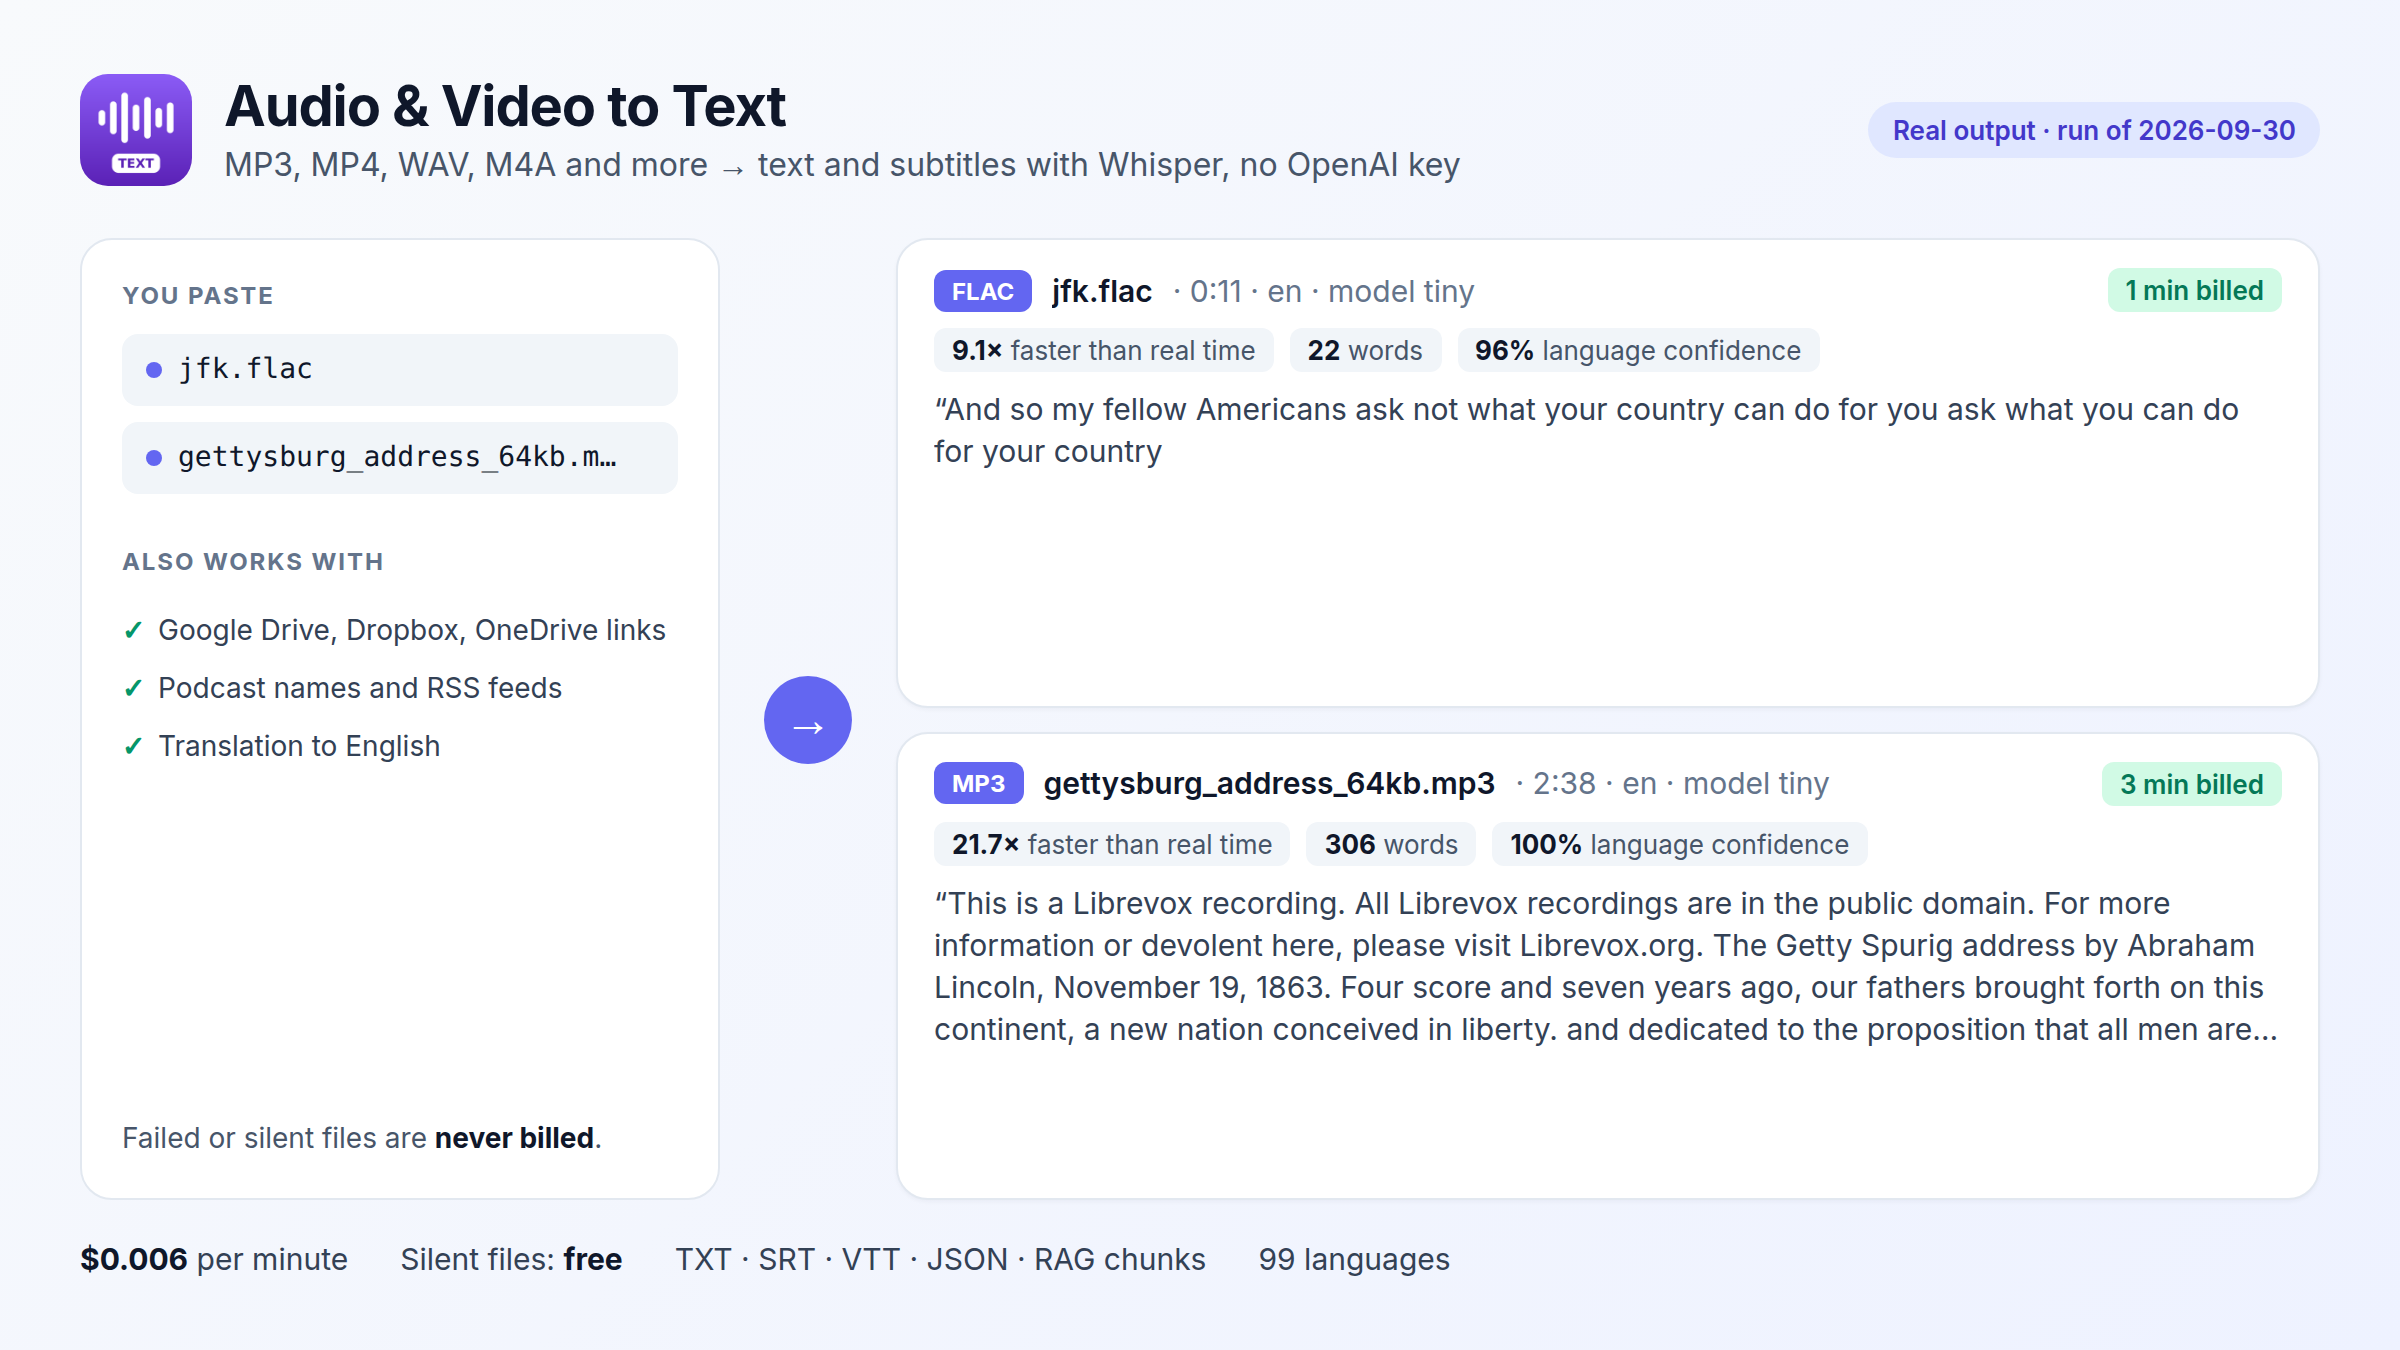
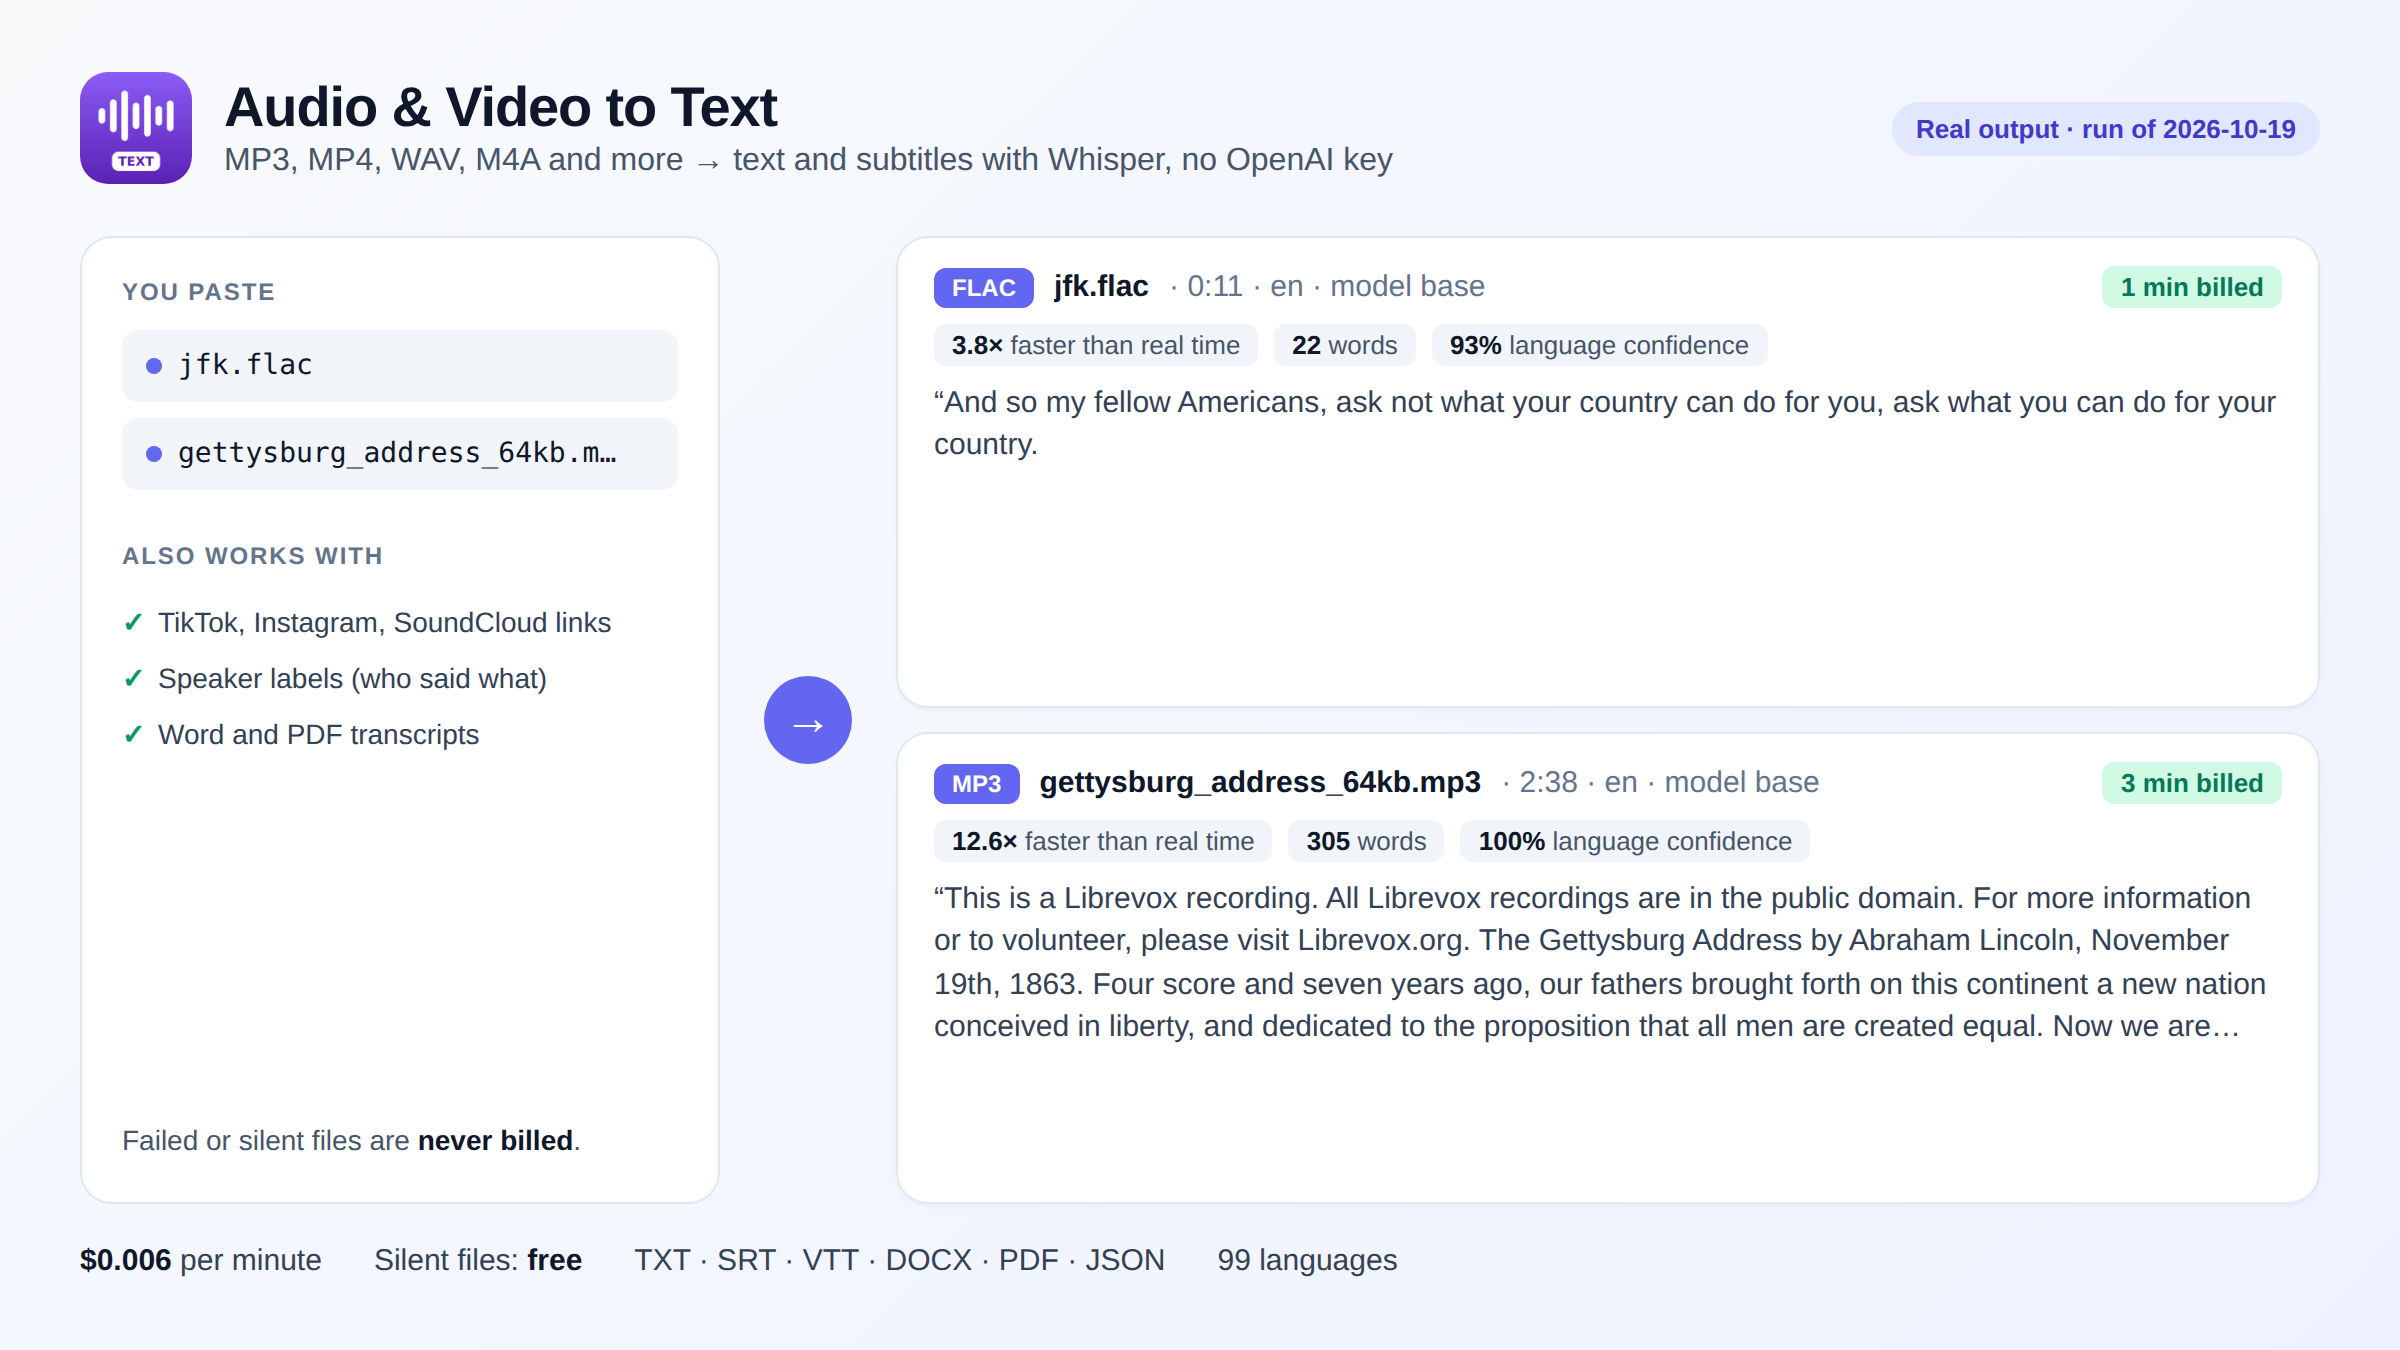
Output cards for Whisper (base model, new features) and Bulk WHOIS (availability); current Whisper sample output; bulk availability in the WHOIS guide and llms.txt

diff --git a/guides/bulk-whois-lookup-api/index.md b/guides/bulk-whois-lookup-api/index.md
@@ -79,6 +79,10 @@ Competitor prices as listed in the Apify Store on 2026-10-03 (Bronze plan where 
 
 ## FAQ
 
+**How do I check which names are available?**
+
+Paste the candidate names and read `registered`: `false` means the registry reports the domain as not registered (free to buy; some registrars charge a premium for certain names), and the row gets the alert "Domain is not registered".
+
 **How many domains per run?**
 
 Thousands. Very large lists stop safely before the run timeout and mark the rest as skipped.
